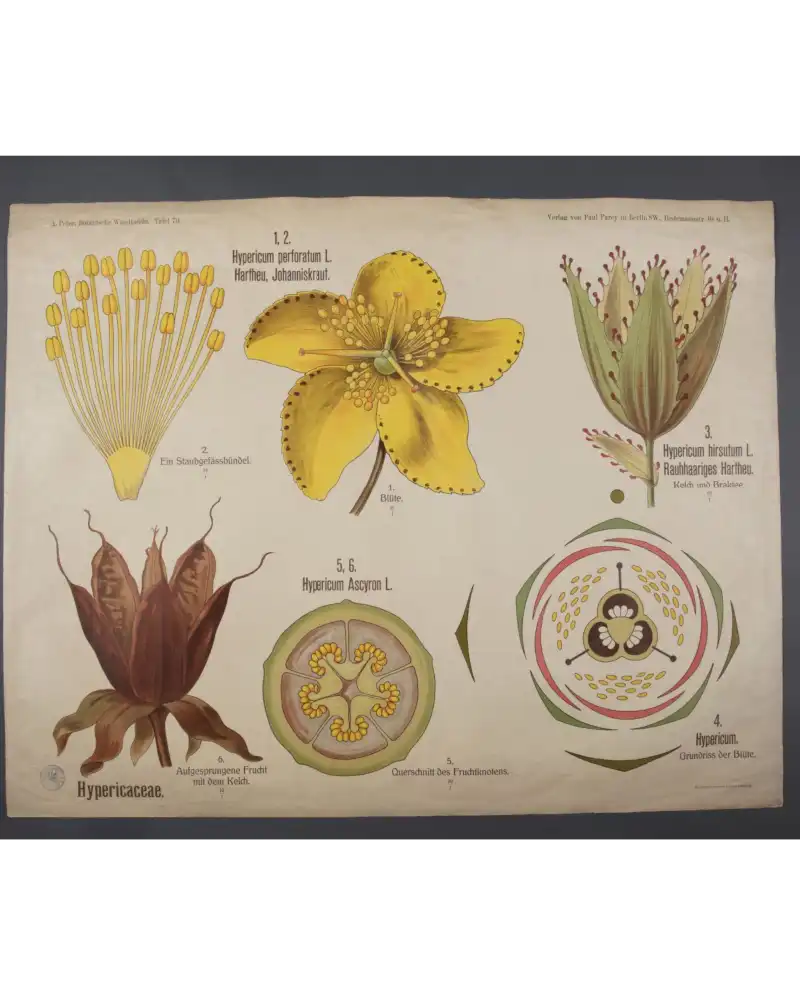
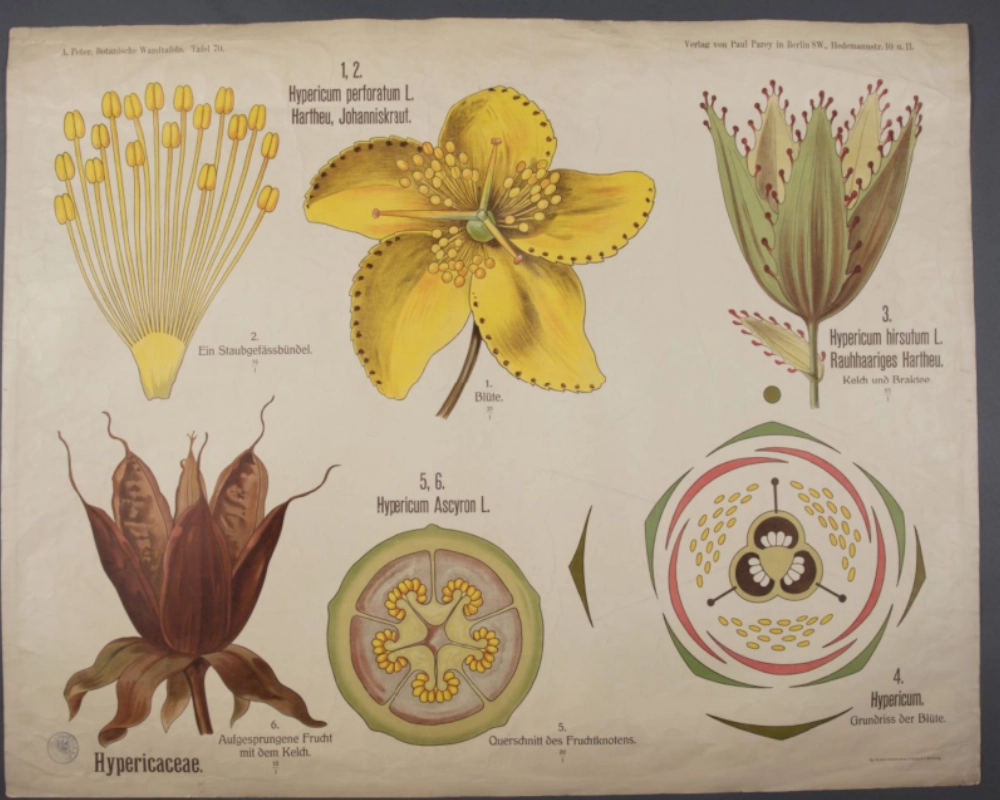
Make layout more robust

diff --git a/public/mediaData.js b/public/mediaData.js
@@ -167,7 +167,7 @@ export const mediaData = {
       name:'Muskatnussbaum - Myristica fragrans',
       shortName:'Muskatnussbaum',
       source: 'Myristica_b',
-      description: 'Du würdest gern Unmengen von Muskat essen, weil du das Gewürz so lecker findest? Das ist keine gute Idee, denn in sehr hohen Dosen treten beim Genuss von Muskat Rauscherscheinungen und Brechreiz auf. Beruhigend...',
+      description: 'Du würdest gern Unmengen von Muskat essen, weil du das Gewürz so lecker findest? Das ist keine gute Idee, denn in sehr hohen Dosen treten beim Genuss von Muskat Rauscherscheinungen und Brechreiz auf.',
       link: 'https://sammlungen.uni-goettingen.de/objekt/record_naniweb_461280/1/-/',
       wiki: 'https://sammlungen.uni-goettingen.de/api/v1/records/record_naniweb_461280/manifest/',
     },
@@ -215,6 +215,7 @@ export const mediaData = {
       name:'Johanniskrautgewächse - Hypericum ascyron',
       shortName:'Johanniskraut',
       source: 'Hypericaceae',
+      landscape: true,
       description: 'Kennst du einen Johannes? Der Name Johanniskraut leitet sich von Johannes dem Täufer (einer Gestalt aus der Bibel) ab, da die Pflanze um den Johannistag (24. Juni) herum blüht. Es wird als Beruhigungsmittel und Antidepressivum verwendet.',
       link: 'https://sammlungen.uni-goettingen.de/objekt/record_naniweb_456951/1/-/',
       wiki: 'https://sammlungen.uni-goettingen.de/api/v1/records/record_naniweb_456951/manifest/',
@@ -327,6 +328,7 @@ export const mediaData = {
       name:'Spiegelndes Laichkraut - Potamogeton lucens',
       shortName:'Spiegelndes Laichkraut',
       source: 'Potamogetonaceae',
+      landscape: true,
       description: 'Das Spiegelnde Laichkraut ist eine Wasserpflanze, die unter der Wasseroberfläche wächst. Nur die Blüten schauen während der Blütezeit aus dem Wasser hervor, da die Bestäubung durch den Wind erfolgt. Ganz schön praktisch, oder?',
       link: 'https://sammlungen.uni-goettingen.de/objekt/record_naniweb_456939/1/-/',
       wiki: 'https://sammlungen.uni-goettingen.de/api/v1/records/record_naniweb_456939/manifest/',
@@ -359,6 +361,7 @@ export const mediaData = {
       name:'Olivenbaum - Olea europaea',
       shortName:'Olivenbaum',
       source: 'Oleaceae',
+      landscape: true,
       description: 'Der Olivenbaum (Echter Ölbaum) wird im Mittelmeerraum seit mehr als 6000 Jahren als Nutzpflanze angebaut. Aus seinen Oliven-Früchten wird Speiseöl gepresst. Die Oliven sind roh nicht essbar und werden durch Einlegen genießbar gemacht. Lecker, oder?',
       link: 'https://sammlungen.uni-goettingen.de/objekt/record_naniweb_456931/1/-/',
       wiki: 'https://sammlungen.uni-goettingen.de/api/v1/records/record_naniweb_456931/manifest/',

diff --git a/components/ui/AvatarEdit.tsx b/components/ui/AvatarEdit.tsx
@@ -2,15 +2,20 @@ import { useState } from 'react';
 
 import Avatar from '@material-ui/core/Avatar';
 import Grid from '@material-ui/core/Grid';
-import { makeStyles, Theme } from '@material-ui/core/styles';
+import { makeStyles, Theme, useTheme } from '@material-ui/core/styles';
 import SwipeableDrawer from '@material-ui/core/SwipeableDrawer';
+import useMediaQuery from '@material-ui/core/useMediaQuery';
 
 import useStore, { ELEMENT_SUFFIX } from '../store';
 import ItemBoard from './ItemBoard';
 
 const useStyles = makeStyles((theme: Theme) => ({
   avatarList: {
-    padding: theme.spacing(4, 2),
+    padding: theme.spacing(2),
+    [theme.breakpoints.up('sm')]: {
+      paddingLeft: '25%',
+      paddingRight: '25%',
+    },
   },
   avatar: {
     borderColor: theme.palette.info.main,
@@ -38,6 +43,10 @@ export default function AvatarEdit() {
     setOpen(true);
   };
 
+  const theme = useTheme();
+  const matchesUpMd = useMediaQuery(theme.breakpoints.up('md'));
+  const anchor = matchesUpMd ? 'left' : 'top';
+
   return (
     <Grid item xs={12} className={classes.avatarList}>
       <Grid container justifyContent="space-evenly">
@@ -53,7 +62,7 @@ export default function AvatarEdit() {
           </Grid>
         ))}
       </Grid>
-      <SwipeableDrawer anchor="top" open={isOpen} onClose={toggleDrawer(false)} onOpen={toggleDrawer(true)}>
+      <SwipeableDrawer anchor={anchor} open={isOpen} onClose={toggleDrawer(false)} onOpen={toggleDrawer(true)}>
         <ItemBoard />
       </SwipeableDrawer>
     </Grid>

diff --git a/components/theme.ts b/components/theme.ts
@@ -102,6 +102,7 @@ theme = {
       },
       root: {
         textTransform: 'none',
+        fontSize: '1rem',
       },
     },
     MuiAvatar: {
@@ -160,20 +161,21 @@ theme = {
     },
     MuiDialogTitle: {
       root: {
-        padding: '1rem'
+        padding: '1rem',
       },
     },
     MuiDialogContent: {
       root: {
         overflowY: 'visible',
-        padding: '1rem'
+        padding: '1rem',
       },
     },
     MuiSlider: {
       root: {
         padding: theme.spacing(2, 0),
-        [theme.breakpoints.up('sm')]: {
-          padding: theme.spacing(3, 0),
+        [theme.breakpoints.up('md')]: {
+          minWidth: '25vw',
+          padding: theme.spacing(5, 0),
         },
       },
     },
@@ -182,11 +184,19 @@ theme = {
         '& > *': {
           margin: theme.spacing(0.5, 2, 0, 1),
         },
+        '& :first-child': {
+          height: '60px',
+        },
         '@media print': {
           '& > *': {
             margin: theme.spacing(1.5, 4),
           },
         },
+      },
+    },
+    MuiImageListItemBar: {
+      actionIconActionPosLeft: {
+        paddingLeft: theme.spacing(0.5),
       },
     },
   },

diff --git a/components/ui/About.tsx b/components/ui/About.tsx
@@ -52,11 +52,15 @@ export function About({ onClose, open }: { onClose: () => void; open: boolean })
           Medienstation -digital und analog- zu entwickeln. Die Medienstation as a Service (MaaS) bietet dir eine
           einfache Möglichkeit, die Vorzüge Plantalas mit deinen Bildern zu verbinden. Willst du mehr erfahren? Schau in
           die{' '}
-          <Link href="https://github.com/digitalwarenkombinat/plantala/blob/main/medienstationAsAService/README.md" target="_blank" rel="noreferrer">
+          <Link
+            href="https://github.com/digitalwarenkombinat/plantala/blob/main/medienstationAsAService/README.md"
+            target="_blank"
+            rel="noreferrer"
+          >
             ausführliche Beschreibung
           </Link>{' '}
           von MaaS. Hast du Interesse, MaaS einzusetzen oder weiterzuentwickeln? Dann kontaktiere uns unter folgender
-          E-Mail-Adresse: <Link href="mailto:gerdesque@posteo.org">gerdesque@posteo.org</Link>
+          E-Mail-Adresse: <Link href="mailto:info@digitalwarenkombinat.de">info@digitalwarenkombinat.de</Link>
         </DialogContentText>
       </DialogContent>
     </Dialog>

diff --git a/components/ui/EditBanner.tsx b/components/ui/EditBanner.tsx
@@ -7,23 +7,27 @@ import ColorSwitch from './ColorSwitch';
 
 const useStyles = makeStyles((theme: Theme) => ({
   banner: {
-    padding: theme.spacing(4, 0),
+    padding: theme.spacing(4, 2, 0),
     textAlign: 'center',
+    [theme.breakpoints.up('sm')]: {
+      padding: theme.spacing(2, 2, 0),
+    },
   },
 }));
 
 const main = {
   description: 'Wähle zum Bearbeiten eine Pflanze aus!',
+  fallback: 'Gehe zurück und wähle Pflanzenteile aus!',
 };
 
 export default function Header() {
   const classes = useStyles();
-  const { isMaaS } = useStore();
+  const { isMaaS, getSelectedElements } = useStore();
 
   return (
     <Grid item xs={12} className={classes.banner}>
-      <Typography variant="h4" component="h3" paragraph>
-        {main.description}
+      <Typography variant="h4" component="h2" paragraph>
+        {getSelectedElements().length > 0 ? main.description : main.fallback}
       </Typography>
       {!isMaaS && <ColorSwitch />}
     </Grid>

diff --git a/components/ui/ItemList.tsx b/components/ui/ItemList.tsx
@@ -1,8 +1,7 @@
 import { ImageList } from '@material-ui/core';
 import { ImageListItem } from '@material-ui/core';
 import Grid from '@material-ui/core/Grid';
-import { useTheme } from '@material-ui/core/styles';
-import { makeStyles, Theme } from '@material-ui/core/styles';
+import { makeStyles, Theme, useTheme } from '@material-ui/core/styles';
 import useMediaQuery from '@material-ui/core/useMediaQuery';
 
 import useStore, { ELEMENT_SUFFIX } from '../store';
@@ -65,12 +64,7 @@ export default function ItemList() {
 
   return (
     <Grid item xs={12} className={classes.itemList}>
-      <ImageList
-        className={classes.imageList}
-        cols={calculateCols()}
-        gap={2}
-        rowHeight={calculateRowHeight()}
-      >
+      <ImageList className={classes.imageList} cols={calculateCols()} gap={2} rowHeight={calculateRowHeight()}>
         {media.map((item) => (
           <ImageListItem
             key={item.source}

diff --git a/components/ui/ShareButtons.tsx b/components/ui/ShareButtons.tsx
@@ -4,10 +4,25 @@ import { Button, Grid } from '@material-ui/core';
 import { saveAs } from 'file-saver';
 import { useReactToPrint } from 'react-to-print';
 
+import useStore from '../store';
 import { MandalaPrint } from './MandalaPrint';
+
+function addWhiteBackground(canvasElement: HTMLCanvasElement) {
+  const context = canvasElement.getContext('2d');
+  if (context) {
+    context.globalCompositeOperation = 'destination-over';
+    context.setTransform(1, 0, 0, 1, 0, 0);
+    context.fillStyle = 'white';
+    context.fillRect(0, 0, canvasElement.width, canvasElement.height);
+  }
+}
 
 async function handleSave() {
   const canvasElement = document.getElementById('plantalaCanvas') as HTMLCanvasElement;
+
+  const colorMode = useStore.getState().colorMode;
+  if (!colorMode) addWhiteBackground(canvasElement);
+
   const dataUrl = canvasElement.toDataURL();
   const blob = await (await fetch(dataUrl)).blob();
   if (blob) {

diff --git a/components/utils/useCanvas.tsx b/components/utils/useCanvas.tsx
@@ -38,13 +38,10 @@ export function useCanvas() {
       const canvasObj = canvasRef.current;
       const context = canvasObj.getContext('2d');
       if (context) {
-        //useStore.subscribe(console.log);
-        //context.canvas.height = window.innerHeight / 1.5;
-        //context.canvas.width = window.innerWidth;
         context.setTransform(1, 0, 0, 1, 0, 0);
         context.clearRect(0, 0, context.canvas.width * imageMultiplier, context.canvas.height * imageMultiplier);
         // drawCoordinateSystem(context);
-        getSelectedElements().forEach(element => drawElements(context, element));
+        getSelectedElements().forEach((element) => drawElements(context, element));
       }
     }
   }, [colorMode, getSelectedElements, imageMultiplier, media]);

diff --git a/components/ui/AvatarShare.tsx b/components/ui/AvatarShare.tsx
@@ -7,7 +7,7 @@ import useStore, { ELEMENT_SUFFIX } from '../store';
 
 const useStyles = makeStyles((theme: Theme) => ({
   avatarList: {
-    padding: theme.spacing(1, 4),
+    padding: theme.spacing(2, 4, 0),
   },
   avatar: {
     borderColor: theme.palette.info.main,
@@ -31,7 +31,7 @@ export default function AvatarShare() {
     <Grid item xs={12} className={classes.avatarList}>
       <Grid container alignItems="center">
         {getSelectedElements().map((element) => (
-          <Grid key={element.name} item container>
+          <Grid key={element.name} item container alignItems="center">
             <Grid item xs={1}>
               <Avatar
                 key={element.name}

diff --git a/components/ui/SelectBanner.tsx b/components/ui/SelectBanner.tsx
@@ -4,8 +4,11 @@ import Typography from '@material-ui/core/Typography';
 
 const useStyles = makeStyles((theme: Theme) => ({
   banner: {
-    padding: theme.spacing(4, 0),
+    padding: theme.spacing(4, 0, 0),
     textAlign: 'center',
+    [theme.breakpoints.up('sm')]: {
+      padding: theme.spacing(2, 0, 0),
+    },
   },
 }));
 
@@ -18,7 +21,7 @@ export default function Header() {
 
   return (
     <Grid item xs={12} className={classes.banner}>
-      <Typography variant="h4" component="h3" paragraph>
+      <Typography variant="h4" component="h2" paragraph>
         {main.description}
       </Typography>
     </Grid>

diff --git a/components/ui/Mandala.tsx b/components/ui/Mandala.tsx
@@ -1,19 +1,13 @@
 import { Grid } from '@material-ui/core';
-import { makeStyles, Theme } from '@material-ui/core/styles';
+import { makeStyles } from '@material-ui/core/styles';
 
 import { useCanvas } from '../utils/useCanvas';
 
-const useStyles = makeStyles((theme: Theme) => ({
+const useStyles = makeStyles(() => ({
   mandala: {
     width: '100%',
     height: '100%',
-    maxWidth: '350px',
-    [theme.breakpoints.up('sm')]: {
-      maxWidth: '600px',
-    },
-    [theme.breakpoints.up('md')]: {
-      maxWidth: '700px',
-    },
+    maxWidth: 'fit-content',
     '@media print': {
       maxWidth: '80vw',
     },

diff --git a/components/ui/BoardDialog.tsx b/components/ui/BoardDialog.tsx
@@ -37,8 +37,8 @@ export function BoardDialog({
         alt={selectedItem.name}
         className={classes.boardMedia}
         src={`${process.env.pathPrefix}/images/${mediaPath}${selectedItem.source}${BOARD_SUFFIX}`}
-        width={800}
-        height={1000}
+        width={selectedItem.landscape ? 1000 : 800}
+        height={selectedItem.landscape ? 800 : 1000}
       />
       <DialogActions>
         <Link href={selectedItem.link} target="_blank" rel="noreferrer">
